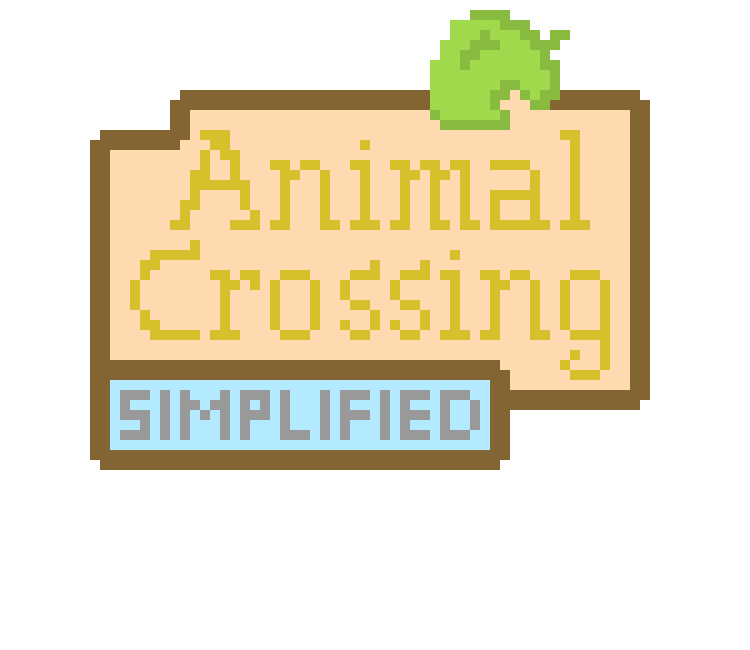
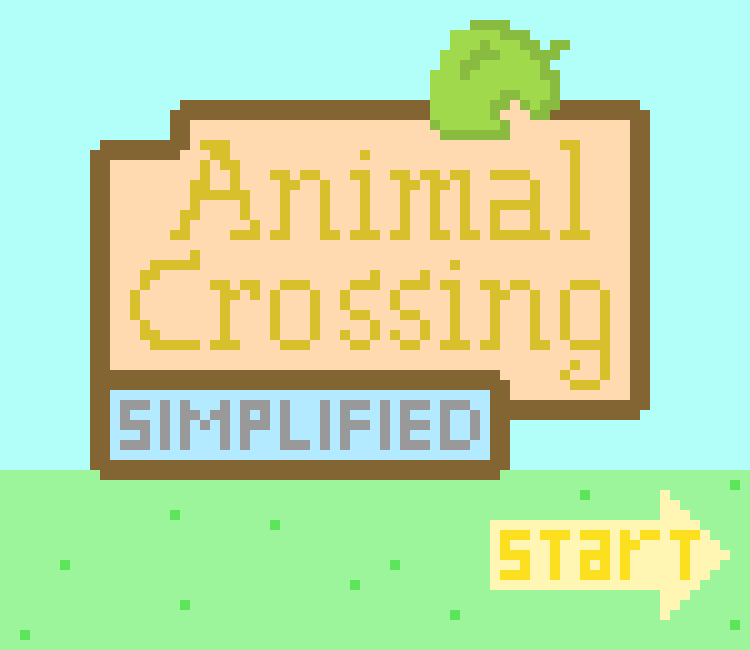
added new Village

diff --git a/AnimalCrossingCharacter.java b/AnimalCrossingCharacter.java
@@ -8,27 +8,29 @@ import greenfoot.*;  // (World, Actor, GreenfootImage, Greenfoot and MouseInfo)
 public class AnimalCrossingCharacter extends Actor
 {
     final static int DISTANCE = 4;
+    // direction values
     final static int LEFT = 1;
     final static int RIGHT = 2;
+    // status values
+    final static int RIGHT_SCREEN = 1;
     int walkIndex = 0;
     float walkValue = 0;
     protected GreenfootImage[] villagerRight;
     protected GreenfootImage[] villagerLeft;
-    GreenfootImage imageLeft;
-    GreenfootImage imageRight;
+    protected GreenfootImage imageLeft;
+    protected GreenfootImage imageRight;
     int direction = 0;
+    int status = 0;
+    
     public AnimalCrossingCharacter()
     {
-        imageLeft = new GreenfootImage("boy_standleft.PNG");
-        imageRight = new GreenfootImage("boy_standright.PNG");
-        imageLeft.scale(100, 140);
-        imageRight.scale(100, 140);
+        
     }
     public void act() 
     {
         
     }    
-    public void checkKeys()
+    public int checkKeys()
     {       
         if (Greenfoot.isKeyDown("left"))
         {
@@ -53,8 +55,15 @@ public class AnimalCrossingCharacter extends Actor
                 walkValue = 0; 
                 walkIndex = 0;
             }
-            setLocation(getX()+DISTANCE, getY());
+            int newX = getX()+DISTANCE;
+            setLocation(newX, getY());
+            if (newX >= 749)
+            {
+                status = RIGHT_SCREEN;
+            }
+            System.out.println(getX());
             direction = RIGHT;
+            
         }
         else
         {
@@ -63,6 +72,7 @@ public class AnimalCrossingCharacter extends Actor
             else if (direction == RIGHT)
                 setImage(imageRight);
         }
+        return status;
         //if (Greenfoot.isKeyDown("up"))
         //{
         //    setLocation(getX(), getY()-DISTANCE);

diff --git a/BoyVillager.java b/BoyVillager.java
@@ -13,11 +13,14 @@ public class BoyVillager extends AnimalCrossingCharacter
     {
          villagerRight = new GreenfootImage[4];
          villagerLeft = new GreenfootImage[4]; 
-        
-         GreenfootImage image = getImage();
-         image.scale(100, 140);
-         setImage(image);
          
+         imageLeft = new GreenfootImage("boy_standleft.PNG");
+         imageRight = new GreenfootImage("boy_standright.PNG");
+         imageLeft.scale(100, 140);
+         imageRight.scale(100, 140);
+         
+         GreenfootImage image = null;
+         setImage(imageRight);        
          for(int i = 0; i < villagerRight.length; i++)
          {
              image = new GreenfootImage("boy_walkright" + i + ".PNG"); 
@@ -33,6 +36,14 @@ public class BoyVillager extends AnimalCrossingCharacter
     }
     public void act() 
     {
-         checkKeys();
+         status = checkKeys();
+         
+         if (status == RIGHT_SCREEN)
+         {
+             Village village = new Village();
+             village.addObject(new BoyVillager(),1, 550);
+             Greenfoot.setWorld(village);
+             
+         }
     } 
 }
